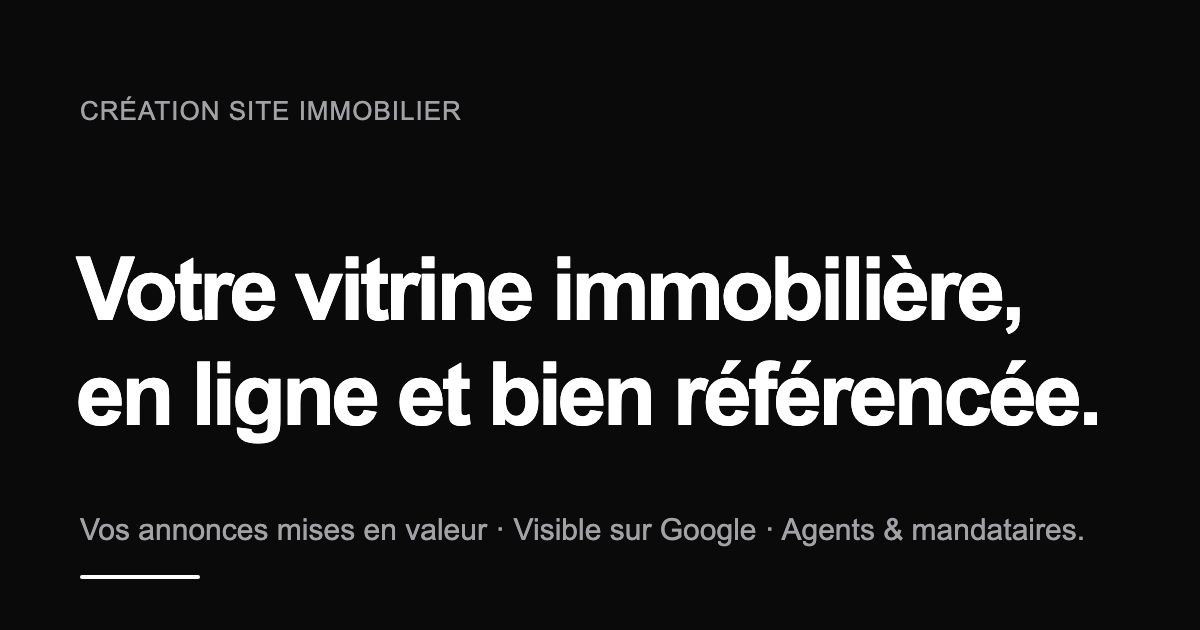
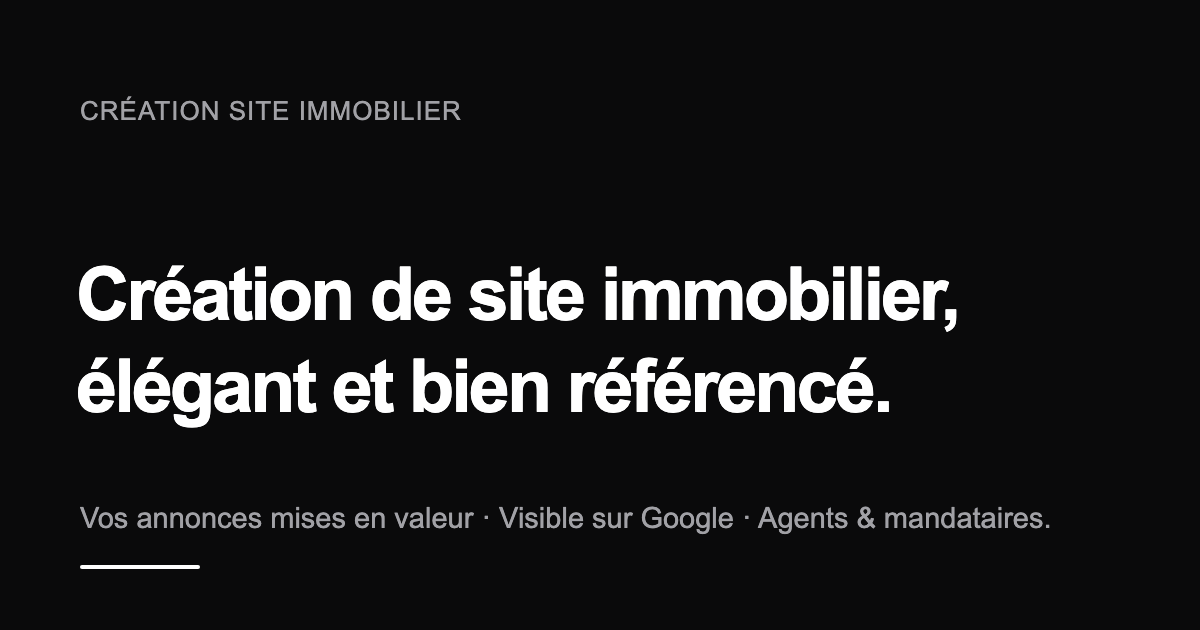
H1 mot-clé exact, image de partage alignée, meta description optimisée

Changed region(s): [[0.0617, 0.573, 0.925, 0.7238], [0.0617, 0.3921, 0.8633, 0.5429], [0.0617, 0.7841, 0.8942, 0.9349]]

diff --git a/index.html b/index.html
@@ -9,7 +9,7 @@
        SEO — cible : « création de site immobilier »
   ============================================================ -->
   <title>Création de site immobilier sur mesure | Agents & mandataires</title>
-  <meta name="description" content="Création de site immobilier sur mesure pour agents et mandataires indépendants : site vitrine premium, mise en valeur de vos annonces et référencement local Google. Devis gratuit sous 48 h." />
+  <meta name="description" content="Création de site immobilier sur mesure pour agents et mandataires : site vitrine premium, annonces mises en valeur et référencement local Google. Devis gratuit." />
 
   <!-- Favicon & icônes -->
   <link rel="icon" href="favicon.svg" type="image/svg+xml" />
@@ -31,7 +31,7 @@
   <meta property="og:image:type" content="image/png" />
   <meta property="og:image:width" content="1200" />
   <meta property="og:image:height" content="630" />
-  <meta property="og:image:alt" content="Création Site Immobilier — votre vitrine immobilière en ligne et bien référencée" />
+  <meta property="og:image:alt" content="Création de site immobilier, élégant et bien référencé — pour agents et mandataires" />
   <meta property="og:locale" content="fr_FR" />
 
   <!-- Twitter -->
@@ -178,9 +178,9 @@
     ============================================================ -->
     <section class="hero" aria-labelledby="hero-title">
       <div class="hero-content">
-        <p class="hero-eyebrow" data-reveal>Création de site immobilier sur mesure</p>
+        <p class="hero-eyebrow" data-reveal>Pour agents &amp; mandataires indépendants</p>
         <h1 id="hero-title" class="hero-title" data-words>
-          Votre vitrine immobilière,<br />en ligne et bien référencée.
+          Création de site immobilier,<br />élégant et bien référencé.
         </h1>
         <p class="hero-sub" data-reveal data-reveal-delay="2">
           Pour les agents et mandataires indépendants. Présentez vos annonces,
